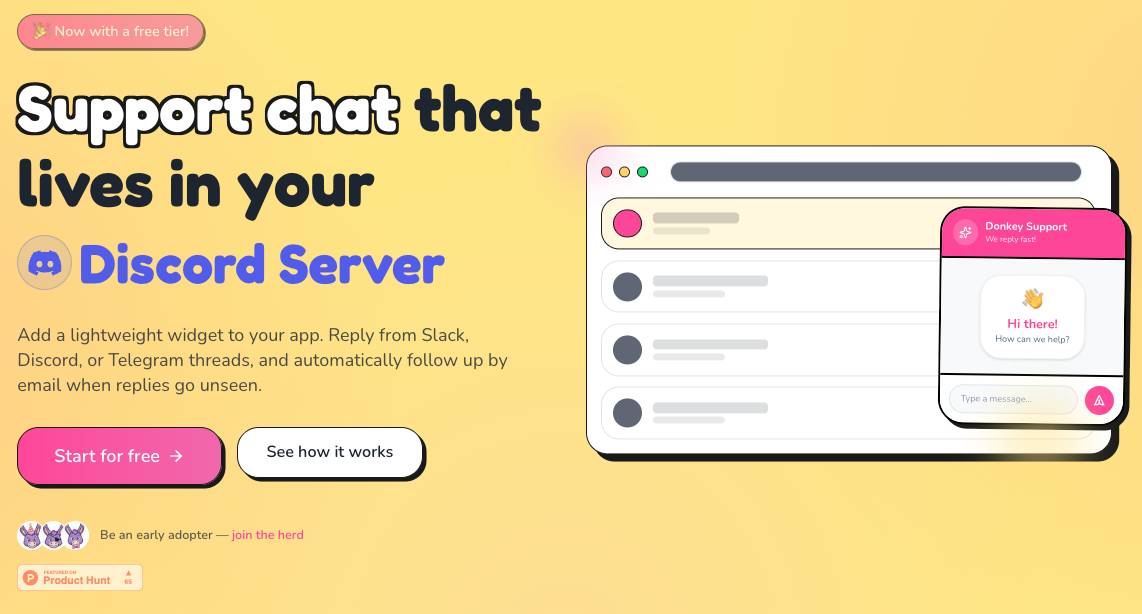
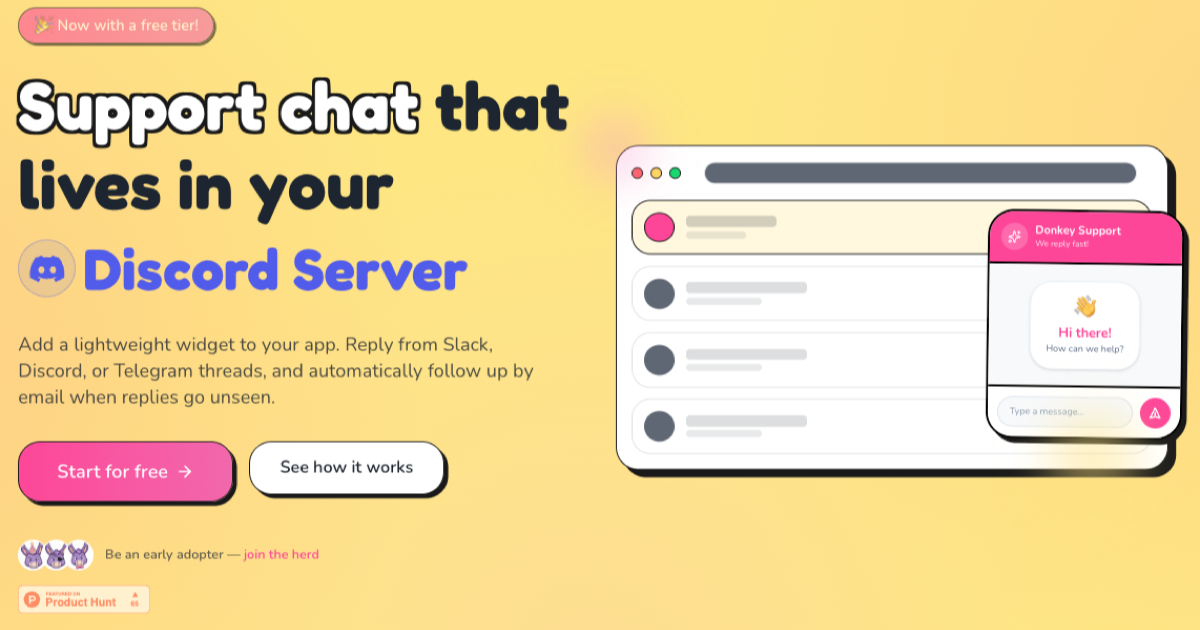
update the card (again)

diff --git a/app/routes/home.tsx b/app/routes/home.tsx
@@ -17,7 +17,7 @@ import {
 } from "~/components/sections"
 
 const SITE_URL = "https://www.donkey.support"
-const SOCIAL_IMAGE_URL = `${SITE_URL}/og/og-image.png?v=2`
+const SOCIAL_IMAGE_URL = `${SITE_URL}/og/og-image.png?v=3`
 
 export function meta({}: Route.MetaArgs) {
   return [
@@ -39,8 +39,8 @@ export function meta({}: Route.MetaArgs) {
     { property: "og:url", content: `${SITE_URL}/` },
     { property: "og:image", content: SOCIAL_IMAGE_URL },
     { property: "og:image:secure_url", content: SOCIAL_IMAGE_URL },
-    { property: "og:image:width", content: "1142" },
-    { property: "og:image:height", content: "614" },
+    { property: "og:image:width", content: "1200" },
+    { property: "og:image:height", content: "630" },
     {
       property: "og:image:alt",
       content: "Donkey Support customer support widget preview",
